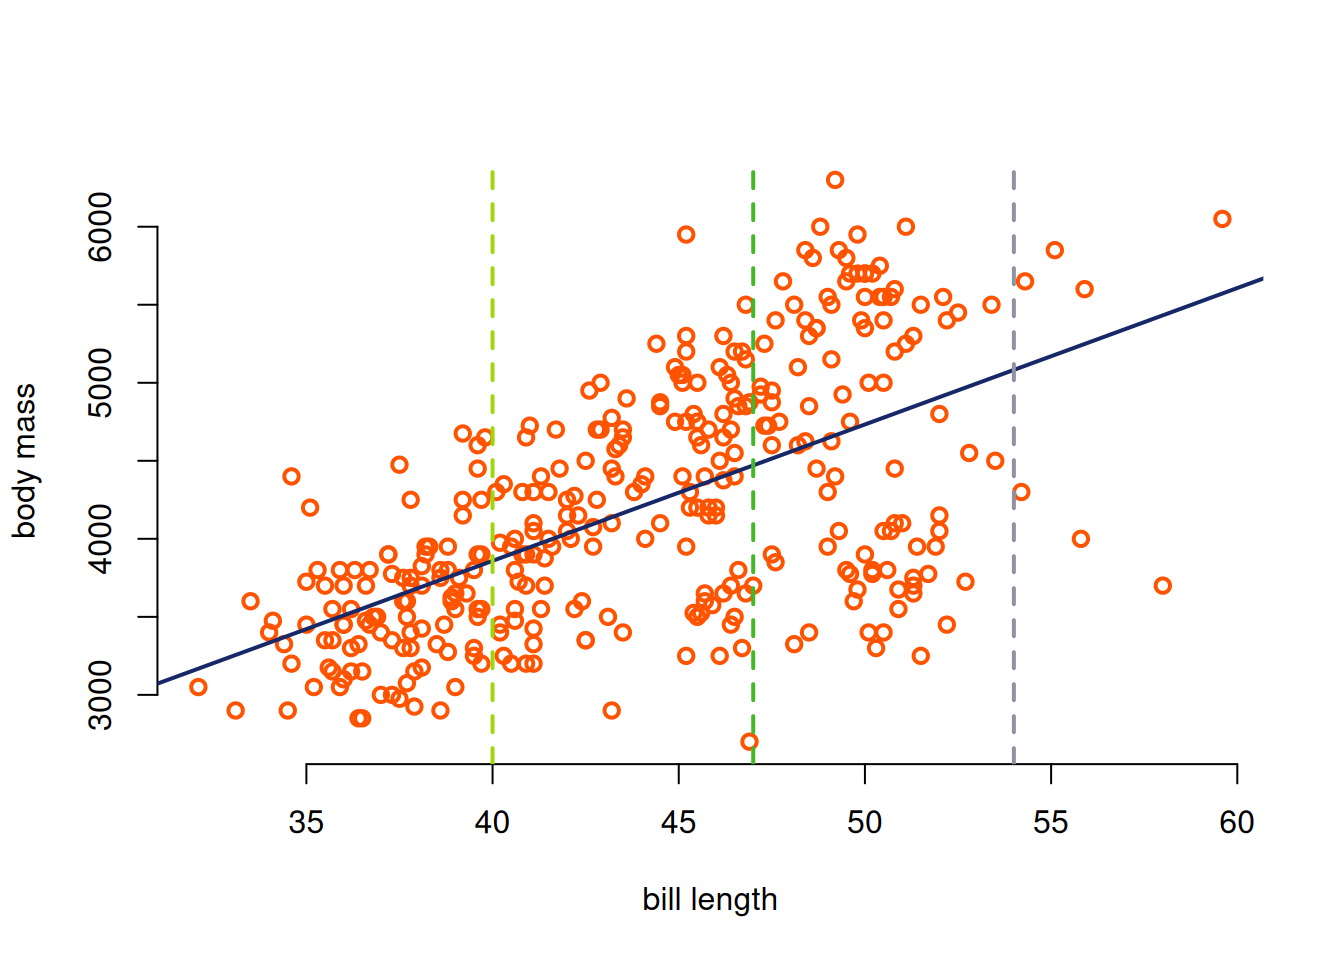
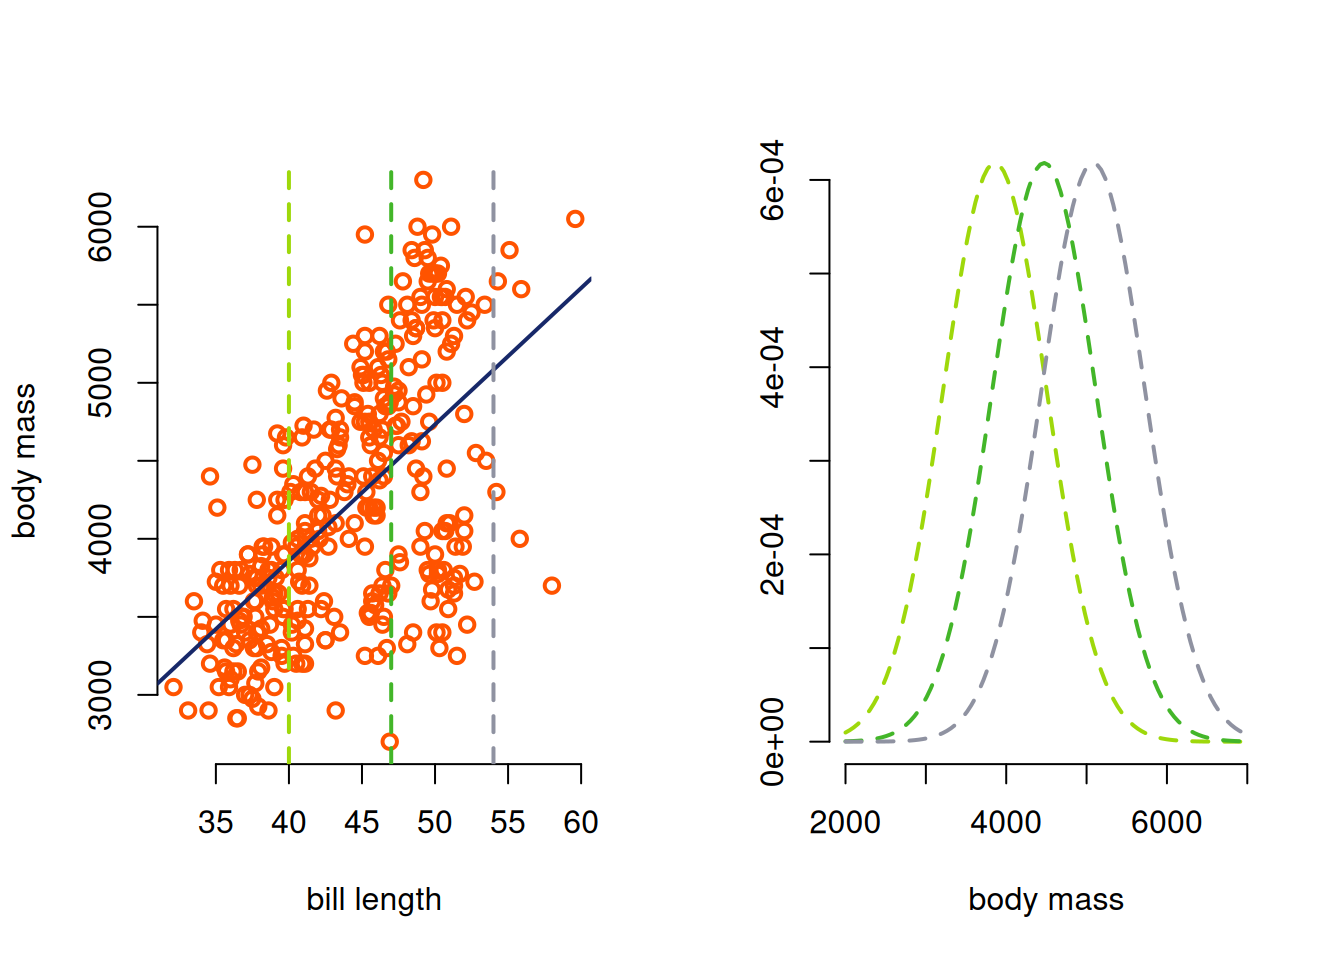
two predictors

diff --git a/docs/05-lm-continuousvars.html b/docs/05-lm-continuousvars.html
@@ -430,11 +430,6 @@ Coefficients:
 </div>
 <p>It helps me to imagine that the values themselves follow a normal distribution centered around a mean that follows the model predictions.</p>
 <div class="cell">
-<div class="sourceCode cell-code" id="cb11"><pre class="sourceCode r code-with-copy"><code class="sourceCode r"><span id="cb11-1"><a href="#cb11-1" aria-hidden="true" tabindex="-1"></a><span class="fu">plot</span>(penguins2<span class="sc">$</span>bill_len, penguins2<span class="sc">$</span>body_mass, <span class="at">bty=</span><span class="st">"n"</span>, <span class="at">ylab =</span> <span class="st">"body mass"</span>, <span class="at">xlab =</span> <span class="st">"bill length"</span>, <span class="at">lwd=</span><span class="dv">2</span>, <span class="at">col =</span> <span class="fu">palette</span>()[<span class="dv">1</span>])</span>
-<span id="cb11-2"><a href="#cb11-2" aria-hidden="true" tabindex="-1"></a><span class="fu">abline</span>(model1, <span class="at">col=</span><span class="fu">palette</span>()[<span class="dv">3</span>], <span class="at">lwd=</span><span class="dv">2</span>)</span>
-<span id="cb11-3"><a href="#cb11-3" aria-hidden="true" tabindex="-1"></a><span class="fu">abline</span>(<span class="at">v=</span><span class="dv">40</span>, <span class="at">col=</span><span class="fu">palette</span>()[<span class="dv">2</span>], <span class="at">lty=</span><span class="dv">2</span>, <span class="at">lwd=</span><span class="dv">2</span>)</span>
-<span id="cb11-4"><a href="#cb11-4" aria-hidden="true" tabindex="-1"></a><span class="fu">abline</span>(<span class="at">v=</span><span class="dv">47</span>, <span class="at">col=</span><span class="fu">palette</span>()[<span class="dv">4</span>], <span class="at">lty=</span><span class="dv">2</span>, <span class="at">lwd=</span><span class="dv">2</span>)</span>
-<span id="cb11-5"><a href="#cb11-5" aria-hidden="true" tabindex="-1"></a><span class="fu">abline</span>(<span class="at">v=</span><span class="dv">54</span>, <span class="at">col=</span><span class="fu">palette</span>()[<span class="dv">5</span>], <span class="at">lty=</span><span class="dv">2</span>, <span class="at">lwd=</span><span class="dv">2</span>)</span></code><button title="Copy to Clipboard" class="code-copy-button"><i class="bi"></i></button></pre></div>
 <div class="cell-output-display">
 <div>
 <figure class="figure">
@@ -442,24 +437,6 @@ Coefficients:
 </figure>
 </div>
 </div>
-<div class="sourceCode cell-code" id="cb12"><pre class="sourceCode r code-with-copy"><code class="sourceCode r"><span id="cb12-1"><a href="#cb12-1" aria-hidden="true" tabindex="-1"></a><span class="fu">par</span>(<span class="at">mfrow=</span><span class="fu">c</span>(<span class="dv">3</span>,<span class="dv">1</span>))</span>
-<span id="cb12-2"><a href="#cb12-2" aria-hidden="true" tabindex="-1"></a></span>
-<span id="cb12-3"><a href="#cb12-3" aria-hidden="true" tabindex="-1"></a><span class="fu">hist</span>(<span class="fu">rnorm</span>(<span class="at">mean=</span>model1<span class="sc">$</span>coefficients[<span class="dv">1</span>]<span class="sc">+</span>model1<span class="sc">$</span>coefficients[<span class="dv">2</span>]<span class="sc">*</span><span class="dv">40</span>, <span class="at">sd =</span> <span class="fu">sigma</span>(model1), <span class="at">n=</span><span class="dv">1000</span>), <span class="at">main=</span><span class="st">""</span>, <span class="at">xlab =</span> <span class="st">"body mass"</span>, <span class="at">border=</span><span class="st">"white"</span>, <span class="at">col=</span><span class="fu">palette</span>()[<span class="dv">2</span>], <span class="at">freq=</span>F, <span class="at">xlim=</span><span class="fu">c</span>(<span class="dv">2000</span>, <span class="dv">7000</span>))</span>
-<span id="cb12-4"><a href="#cb12-4" aria-hidden="true" tabindex="-1"></a></span>
-<span id="cb12-5"><a href="#cb12-5" aria-hidden="true" tabindex="-1"></a><span class="fu">hist</span>(<span class="fu">rnorm</span>(<span class="at">mean=</span>model1<span class="sc">$</span>coefficients[<span class="dv">1</span>]<span class="sc">+</span>model1<span class="sc">$</span>coefficients[<span class="dv">2</span>]<span class="sc">*</span><span class="dv">47</span>, <span class="at">sd =</span> <span class="fu">sigma</span>(model1), <span class="at">n=</span><span class="dv">1000</span>), <span class="at">main=</span><span class="st">""</span>, <span class="at">xlab =</span> <span class="st">"body mass"</span>, <span class="at">border=</span><span class="st">"white"</span>, <span class="at">col=</span><span class="fu">palette</span>()[<span class="dv">4</span>], <span class="at">freq=</span>F, <span class="at">xlim=</span><span class="fu">c</span>(<span class="dv">2000</span>, <span class="dv">7000</span>))</span>
-<span id="cb12-6"><a href="#cb12-6" aria-hidden="true" tabindex="-1"></a></span>
-<span id="cb12-7"><a href="#cb12-7" aria-hidden="true" tabindex="-1"></a><span class="fu">hist</span>(<span class="fu">rnorm</span>(<span class="at">mean=</span>model1<span class="sc">$</span>coefficients[<span class="dv">1</span>]<span class="sc">+</span>model1<span class="sc">$</span>coefficients[<span class="dv">2</span>]<span class="sc">*</span><span class="dv">54</span>, <span class="at">sd =</span> <span class="fu">sigma</span>(model1), <span class="at">n=</span><span class="dv">1000</span>), <span class="at">main=</span><span class="st">""</span>, <span class="at">xlab =</span> <span class="st">"body mass"</span>, <span class="at">border=</span><span class="st">"white"</span>, <span class="at">col=</span><span class="fu">palette</span>()[<span class="dv">5</span>], <span class="at">freq=</span>F, <span class="at">xlim=</span><span class="fu">c</span>(<span class="dv">2000</span>, <span class="dv">7000</span>))</span></code><button title="Copy to Clipboard" class="code-copy-button"><i class="bi"></i></button></pre></div>
-<div class="cell-output-display">
-<div>
-<figure class="figure">
-<p><img src="05-lm-continuousvars_files/figure-html/unnamed-chunk-8-2.png" class="img-fluid figure-img" width="672"></p>
-</figure>
-</div>
-</div>
-<div class="sourceCode cell-code" id="cb13"><pre class="sourceCode r code-with-copy"><code class="sourceCode r"><span id="cb13-1"><a href="#cb13-1" aria-hidden="true" tabindex="-1"></a><span class="co">#   lines(seq(30,65,length.out=100),</span></span>
-<span id="cb13-2"><a href="#cb13-2" aria-hidden="true" tabindex="-1"></a><span class="co">#                                   dnorm(seq(30,65,length.out=100),</span></span>
-<span id="cb13-3"><a href="#cb13-3" aria-hidden="true" tabindex="-1"></a><span class="co">#                                   mean=model1$coefficients[2],</span></span>
-<span id="cb13-4"><a href="#cb13-4" aria-hidden="true" tabindex="-1"></a><span class="co">#                                   sd=sigma(model1)))</span></span></code><button title="Copy to Clipboard" class="code-copy-button"><i class="bi"></i></button></pre></div>
 </div>
 
 
